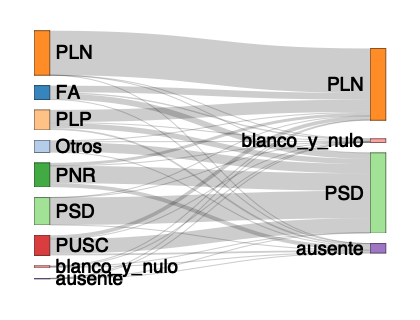
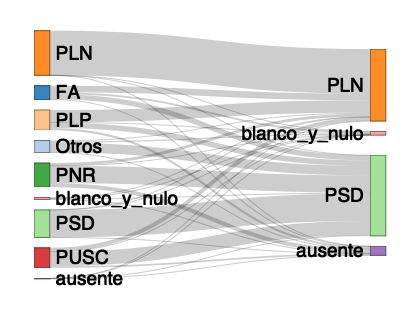
Updated documentation

diff --git a/README.md b/README.md
@@ -72,7 +72,7 @@ costa.rica.ein <-
       )
     )
 dummy <- costa.rica.ein$loadInputPivotCandidatos()
-#> INFO  [20:16:15.048] Loading input election {input.filepath: `/Users/kenarab/Library/R/x86_64/4.1/library/ElectionsLATAM/extdata/costa-rica/2021-generales_pivot_candidatos_n4.csv`}
+#> INFO  [20:22:04.850] Loading input election {input.filepath: `/Users/kenarab/Library/R/x86_64/4.1/library/ElectionsLATAM/extdata/costa-rica/2021-generales_pivot_candidatos_n4.csv`}
 costa.rica.ein$output.election <- readr::read_delim(
     #ballotage.processor$pivot.filepath,
     file.path(costa.rica.ein.path,
@@ -83,38 +83,40 @@ costa.rica.ein$output.election <- readr::read_delim(
       id_unidad = col_character()
     )
   )
-costa.rica.ein$runScenario(include.blancos = TRUE, include.ausentes = TRUE)
-#> INFO  [20:16:15.195] Setting seed {seed: `143324`}
-#> INFO  [20:16:15.254] Starting with {input.locations: `6661`, output.locations: `6738`, locations.available: `6661`}
-#> INFO  [20:16:15.471] After filtering locations {input.locations: `6661`, output.locations: `6661`}
-#> INFO  [20:16:15.537] ParamsEstim {nR: `10`, nC: `5`}
-#> INFO  [20:16:22.913] calcFractions 
-#> INFO  [20:16:22.922] Results for {description: `input.original`, results: `FA= 3.24|habilitados= 62.25|Otros= 2.81|PLN= 10.15|PLP= 4.6|PNR= 5.56|PSD= 6.25|PUSC= 4.62|blanco_y_nulo= 0.52`, total.votes: `2083243`}
-#> INFO  [20:16:22.941] Results for {description: `input`, results: `FA= 8.54|Otros= 7.41|PLN= 26.8|PLP= 12.14|PNR= 14.66|PSD= 16.5|PUSC= 12.2|blanco_y_nulo= 1.38|ausente= 0.37`, total.votes: `2083243`}
-#> INFO  [20:16:22.944] Results for {description: `output.original`, results: `habilitados= 63.79|PLN= 16.63|PSD= 18.64|blanco_y_nulo= 0.93`, total.votes: `1978230`}
-#> INFO  [20:16:22.946] Results for {description: `output`, results: `PLN= 43.31|PSD= 48.6|blanco_y_nulo= 2.43|ausente= 5.65`, total.votes: `1972818`}
-#> INFO  [20:16:22.948] Votes {total.input.votes: `2083243`, total.input.applied.votes: `2083243`, total.output.votes: `1978230`, total.output.applied.votes: `1972818`, change.input.output.votes: `0.9496`, change.input.output.applied.votes: `0.947`, dismissed.input.votes: `1`, dismissed.output.votes: `0.9973`}
+costa.rica.ein$runScenario(include.blancos = TRUE, include.ausentes = TRUE,
+                           max.potential.votes.rel.dif = 0.32)
+#> INFO  [20:22:04.979] Setting seed {seed: `143324`}
+#> INFO  [20:22:05.052] Starting with {input.locations: `6661`, output.locations: `6738`, locations.available: `6661`}
+#> INFO  [20:22:05.274] After filtering locations {input.locations: `6661`, output.locations: `6661`}
+#> INFO  [20:22:05.316] After filtering comparable locations {threshold: `0.32`, non.comparable.locations: `84`, non.comparable.votes: `10507`, comparable.locations: `6577`, comparable.votes: `2072736`, input.locations: `6577`, output.locations: `6577`}
+#> INFO  [20:22:05.377] ParamsEstim {nR: `10`, nC: `5`}
+#> INFO  [20:22:12.564] calcFractions 
+#> INFO  [20:22:12.574] Results for {description: `input.original`, results: `FA= 3.24|habilitados= 62.25|Otros= 2.81|PLN= 10.15|PLP= 4.6|PNR= 5.56|PSD= 6.25|PUSC= 4.62|blanco_y_nulo= 0.52`, total.votes: `2083243`}
+#> INFO  [20:22:12.585] Results for {description: `input`, results: `FA= 8.56|Otros= 7.4|PLN= 26.84|PLP= 12.19|PNR= 14.56|PSD= 16.55|PUSC= 12.18|blanco_y_nulo= 1.35|ausente= 0.37`, total.votes: `2072736`}
+#> INFO  [20:22:12.587] Results for {description: `output.original`, results: `habilitados= 63.79|PLN= 16.63|PSD= 18.64|blanco_y_nulo= 0.93`, total.votes: `1978230`}
+#> INFO  [20:22:12.590] Results for {description: `output`, results: `PLN= 43.39|PSD= 48.66|blanco_y_nulo= 2.43|ausente= 5.51`, total.votes: `1965668`}
+#> INFO  [20:22:12.591] Votes {total.input.votes: `2083243`, total.input.applied.votes: `2072736`, total.output.votes: `1978230`, total.output.applied.votes: `1965668`, change.input.output.votes: `0.9496`, change.input.output.applied.votes: `0.9483`, dismissed.input.votes: `0.995`, dismissed.output.votes: `0.9936`}
 #>                         PLN    PSD blanco_y_nulo ausente 1 - rowSums(dsOUTpre)
-#> FA                    83306  73882         16847    1568                  3056
-#> Otros                 13331 117779         11154   10915                  1737
-#> PLN                  559594    314            48      23                   395
-#> PLP                  154011  66339         10382   21407                  1703
-#> PNR                   37250 218892           125   49630                   688
-#> PSD                      29 344873            17      20                    92
-#> PUSC                  46570 181029          2745   22488                  2181
-#> blanco_y_nulo          5959   1473          5581   13578                  2233
-#> ausente                2111   5572            11       2                    41
-#> 1 - rowSums(dsINpre)  -4292   -585         -1210    -642                 -1008
+#> FA                    81814  64970         22881    5464                  3026
+#> Otros                 12350 120062         14979    4352                  2180
+#> PLN                  557782    223            35      18                   308
+#> PLP                  154001  67818          3104   27104                  1539
+#> PNR                   35727 215442           139   50716                   921
+#> PSD                      40 344126            21      26                   115
+#> PUSC                  49679 179535           843   21195                  2038
+#> blanco_y_nulo          7509   9456          3961    4811                  2425
+#> ausente                1254   6329            12       4                    58
+#> 1 - rowSums(dsINpre)  -4315   -562         -1182    -618                  -981
 costa.rica.test.path <- file.path(tempdir(), "test","costa-rica")
 costa.rica.ein$exportBetab(output.folder = costa.rica.test.path, overwrite = TRUE)
-#> INFO  [20:16:22.962] Ecological inference Betab file writen {betab.filepath: `/var/folders/4r/f_k7yqz92p76h7b32m953pyr0000gp/T//RtmpEG7zIR/test/costa-rica/2022-costa-rica-general-ballotage-n4-ein-betab-scen-final-s-143324.csv`}
+#> INFO  [20:22:12.603] Ecological inference Betab file writen {betab.filepath: `/var/folders/4r/f_k7yqz92p76h7b32m953pyr0000gp/T//RtmpqM9Jhh/test/costa-rica/2022-costa-rica-general-ballotage-n4-ein-betab-scen-final-s-143324.csv`}
 dummy <- costa.rica.ein$generateOutputJSON(costa.rica.test.path,
                                            filename = "balotaje_n4_ei.json")
-#> INFO  [20:16:22.987] Ecological inference json writen {json.filepath: `/var/folders/4r/f_k7yqz92p76h7b32m953pyr0000gp/T//RtmpEG7zIR/test/costa-rica/balotaje_n4_ei.json`}
+#> INFO  [20:22:12.629] Ecological inference json writen {json.filepath: `/var/folders/4r/f_k7yqz92p76h7b32m953pyr0000gp/T//RtmpqM9Jhh/test/costa-rica/balotaje_n4_ei.json`}
 
 costa.rica.ein$makeSankeyDiagram(output.path = costa.rica.test.path)
-#> INFO  [20:16:22.996] Generating sankeyNetwork {nodes: `13`, links: `36`}
-#> INFO  [20:16:23.209] Generating webshot {sankey.d3.png.filepath: `/var/folders/4r/f_k7yqz92p76h7b32m953pyr0000gp/T//RtmpEG7zIR/test/costa-rica/2022-costa-rica-general-ballotage-n4-ein-sankey-scen-final-s-143324.png`}
+#> INFO  [20:22:12.638] Generating sankeyNetwork {nodes: `13`, links: `36`}
+#> INFO  [20:22:12.844] Generating webshot {sankey.d3.png.filepath: `/var/folders/4r/f_k7yqz92p76h7b32m953pyr0000gp/T//RtmpqM9Jhh/test/costa-rica/2022-costa-rica-general-ballotage-n4-ein-sankey-scen-final-s-143324.png`}
 ```
 
 <img src="man/figures/README-costa-rica-1.png" width="100%" />
